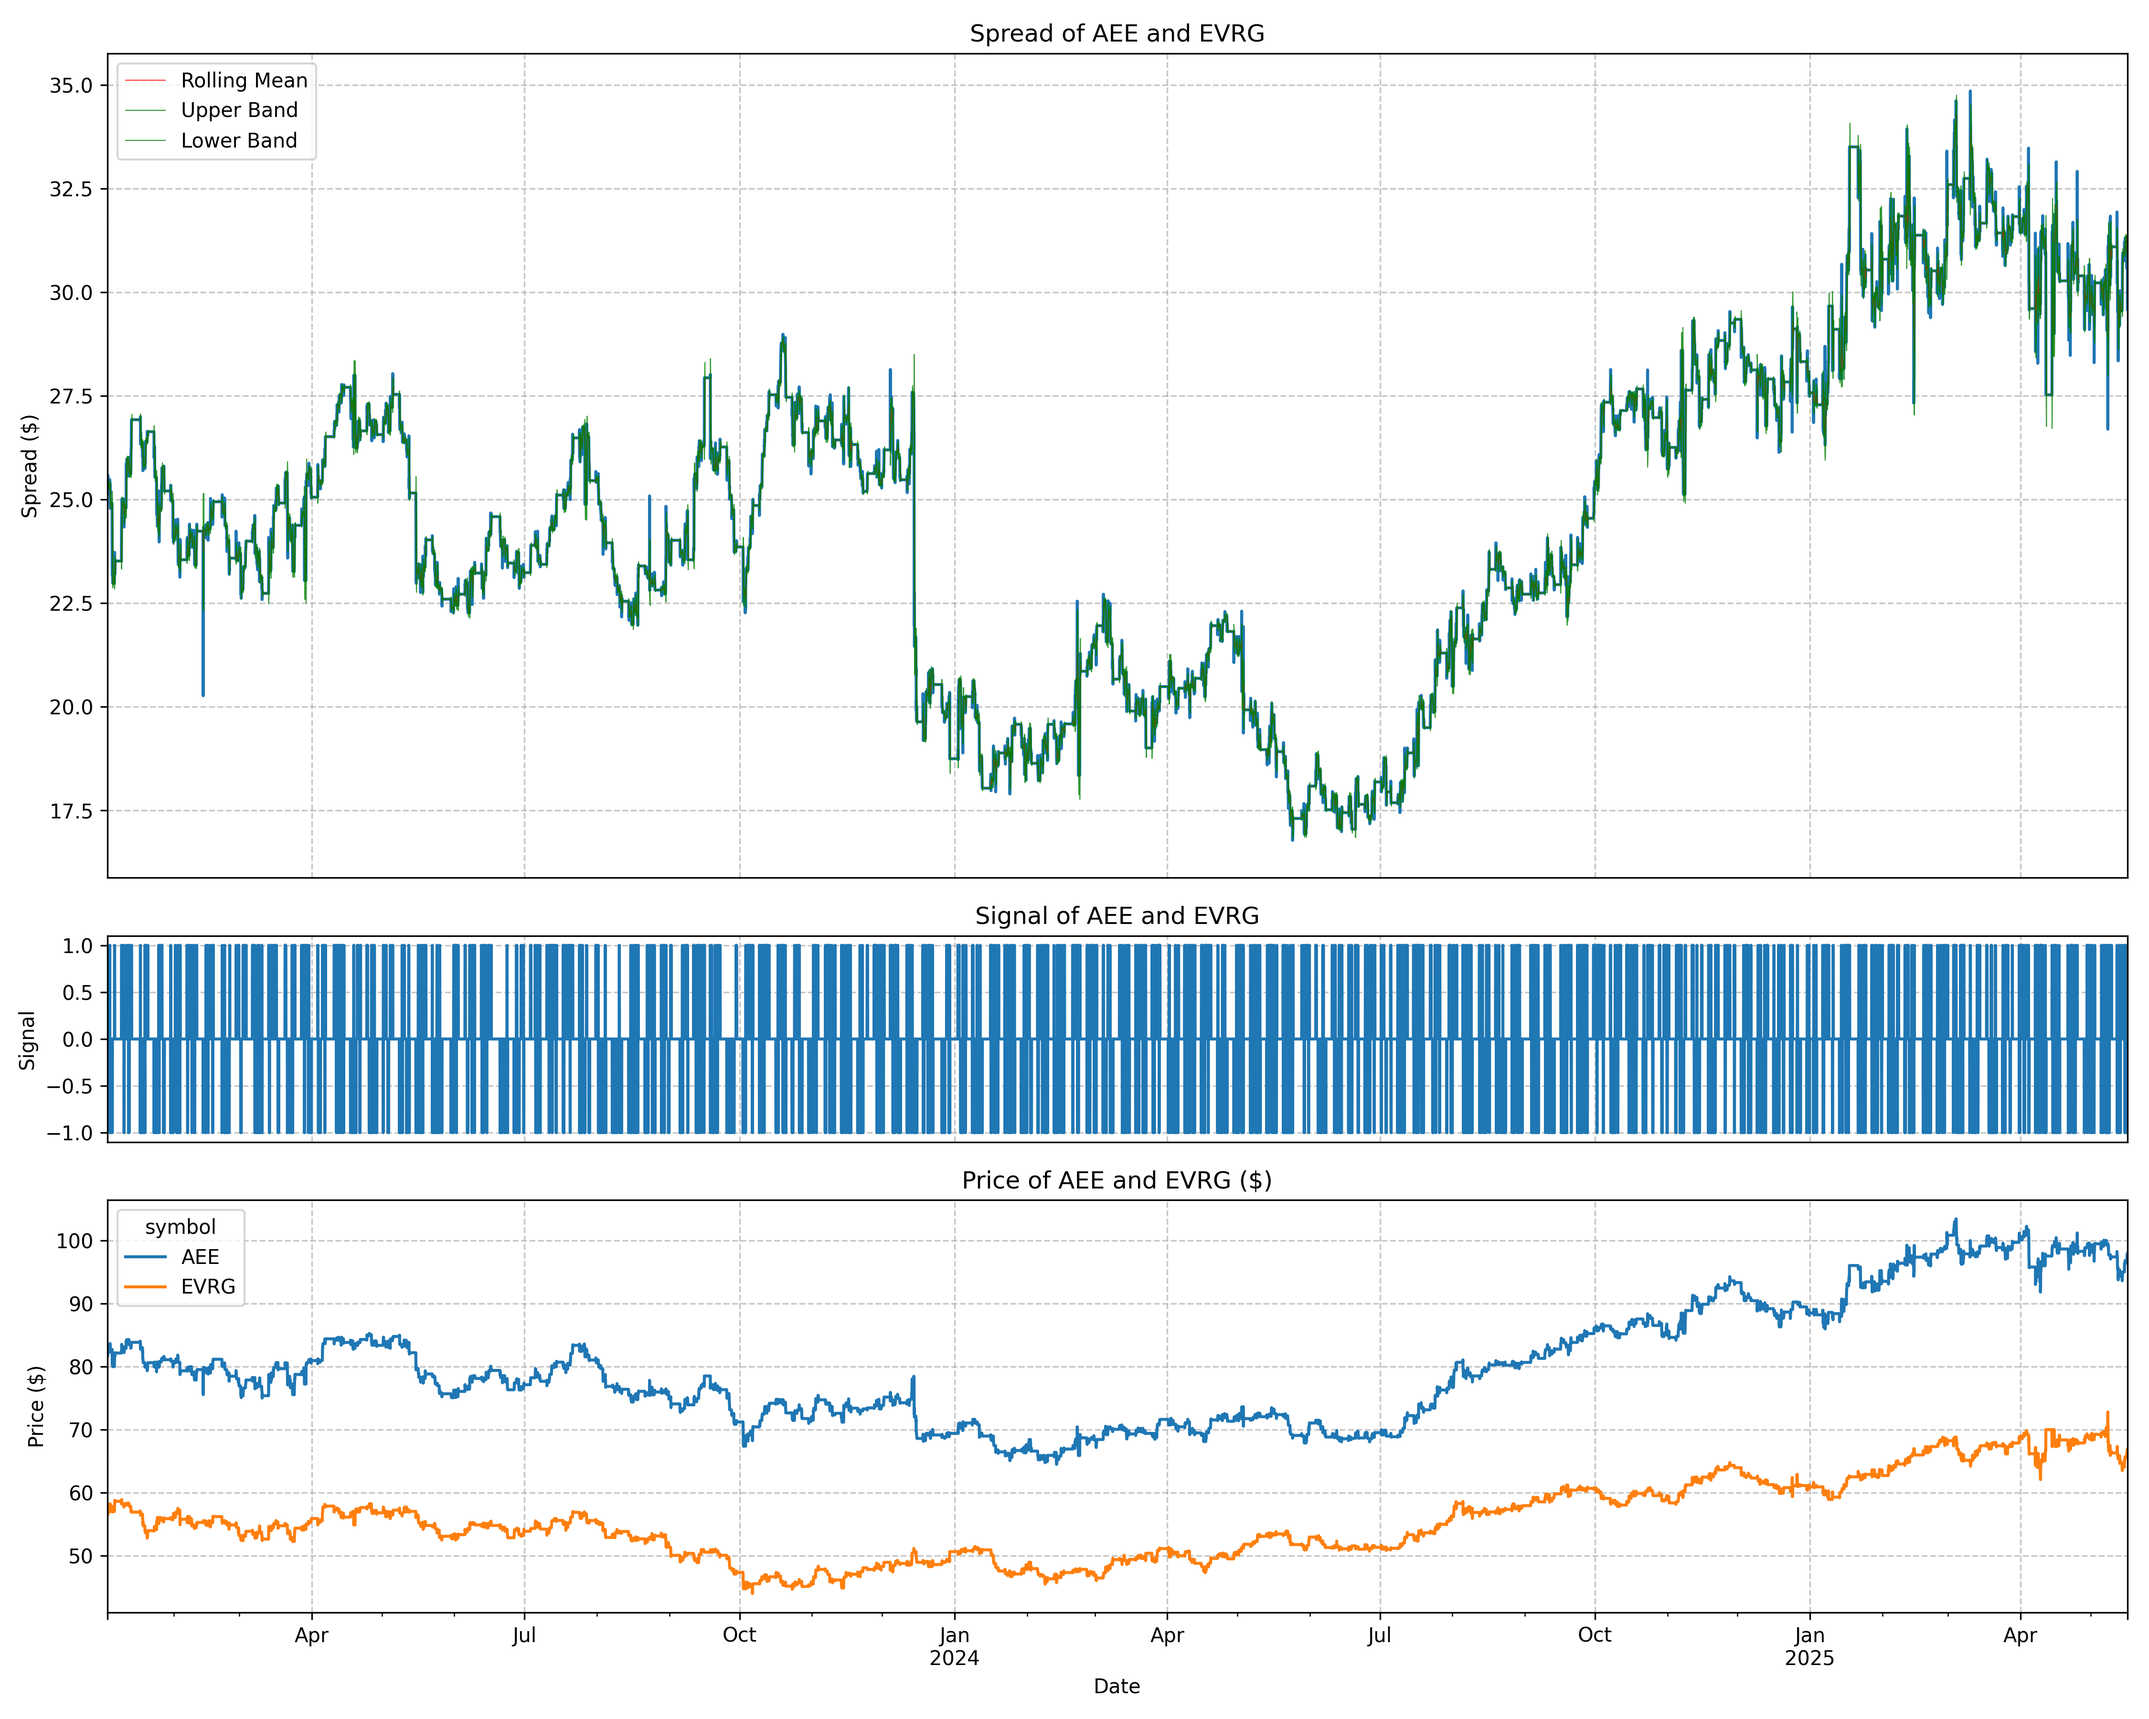
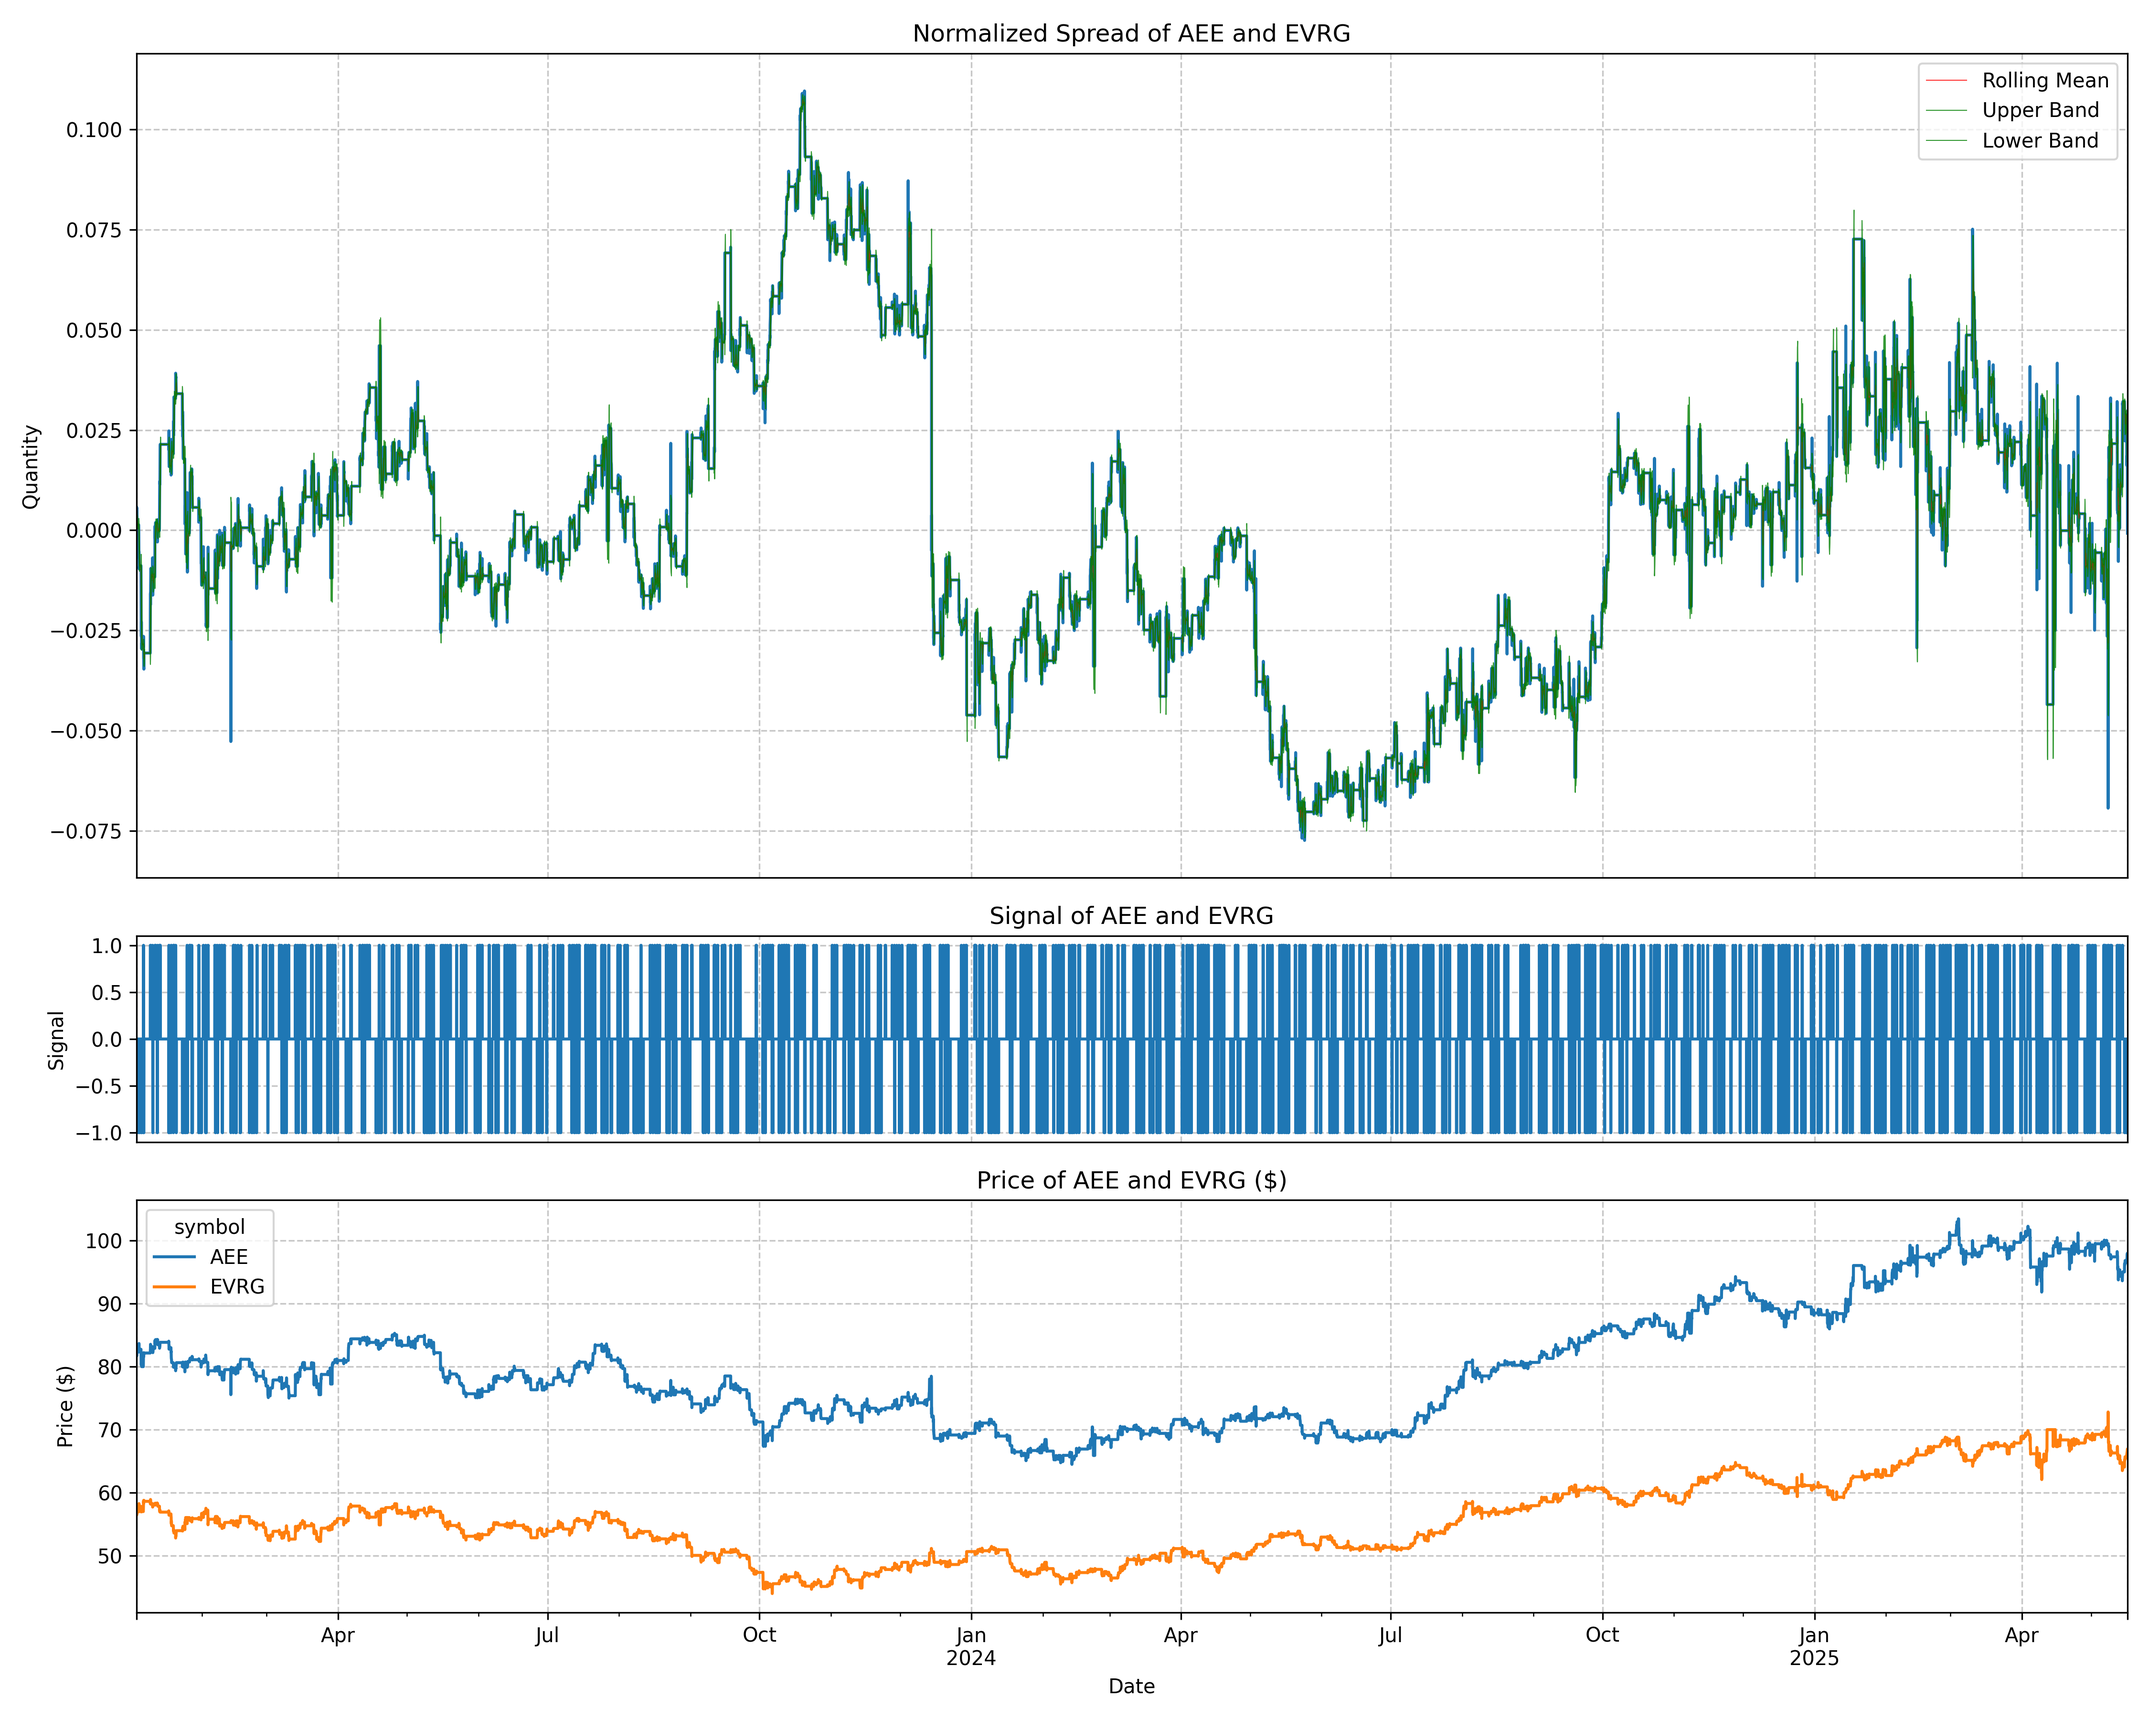
normalized spread in graph

diff --git a/src/pairs_selection.py b/src/pairs_selection.py
@@ -243,30 +243,36 @@ if __name__ == "__main__":
     for lowest_pair in lowest_pairs:
         ticker1, ticker2 = lowest_pair
         prices = close_prices[[ticker1, ticker2]]  # .iloc[-1000:]
-        spread = prices.iloc[:, 0] - prices.iloc[:, 1]
+        # spread = prices.iloc[:, 0] - prices.iloc[:, 1]
 
-        # normalized_prices = close_prices[[ticker1, ticker2]].apply(
-        #    lambda x: (x / x.mean())
-        # )
-        # normalized_spread = normalized_prices.iloc[:, 0] - normalized_prices.iloc[:, 1]
+        normalized_prices = close_prices[[ticker1, ticker2]].apply(
+            lambda x: (x / x.mean())
+        )
+        normalized_spread = normalized_prices.iloc[:, 0] - normalized_prices.iloc[:, 1]
 
         # make bands
         rolling_window = 8  # This is used for determining how many days ahead to use to calculate the rolling mean
         std_multiplier = 1
-        rolling_mean = (spread.rolling(window=rolling_window).mean()).dropna()
-        rolling_std = (spread.rolling(window=rolling_window).std()).dropna()
+        rolling_mean = (
+            normalized_spread.rolling(window=rolling_window).mean()
+        ).dropna()
+        rolling_std = (normalized_spread.rolling(window=rolling_window).std()).dropna()
         upper_band = rolling_mean + (rolling_std * std_multiplier)
         lower_band = rolling_mean - (rolling_std * std_multiplier)
 
         # fix the bands and rollings to be the same length as the spread
-        rolling_mean = rolling_mean.reindex(spread.index)
-        upper_band = upper_band.reindex(spread.index)
-        lower_band = lower_band.reindex(spread.index)
+        rolling_mean = rolling_mean.reindex(normalized_spread.index)
+        upper_band = upper_band.reindex(normalized_spread.index)
+        lower_band = lower_band.reindex(normalized_spread.index)
 
         # make a series where the value is 1 if the spread is above the upper band and -1 if it is below the lower band
         position = pd.Series(
-            np.where(spread > upper_band, 1, np.where(spread < lower_band, -1, 0)),
-            index=spread.index,
+            np.where(
+                normalized_spread > upper_band,
+                1,
+                np.where(normalized_spread < lower_band, -1, 0),
+            ),
+            index=normalized_spread.index,
         )
 
         # Create figure with three subplots
@@ -275,7 +281,9 @@ if __name__ == "__main__":
         )
 
         # Plot spread in the largest subplot
-        spread.plot(ax=ax1, title=f"Spread of {ticker1} and {ticker2}")
+        normalized_spread.plot(
+            ax=ax1, title=f"Normalized Spread of {ticker1} and {ticker2}"
+        )
         rolling_mean.plot(
             ax=ax1, label="Rolling Mean", color="red", linewidth=0.5, alpha=0.8
         )
@@ -285,7 +293,7 @@ if __name__ == "__main__":
         lower_band.plot(
             ax=ax1, label="Lower Band", color="green", linewidth=0.5, alpha=0.8
         )
-        ax1.set_ylabel("Spread ($)")
+        ax1.set_ylabel("Quantity")
         ax1.set_xlabel("")
         ax1.grid(True, linestyle="--", alpha=0.7)
         ax1.legend()
